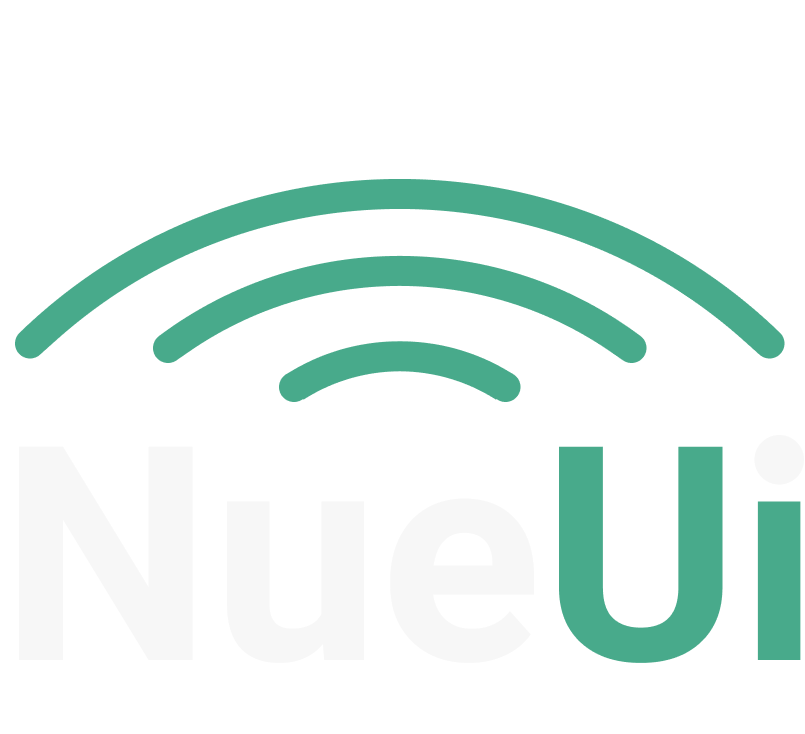
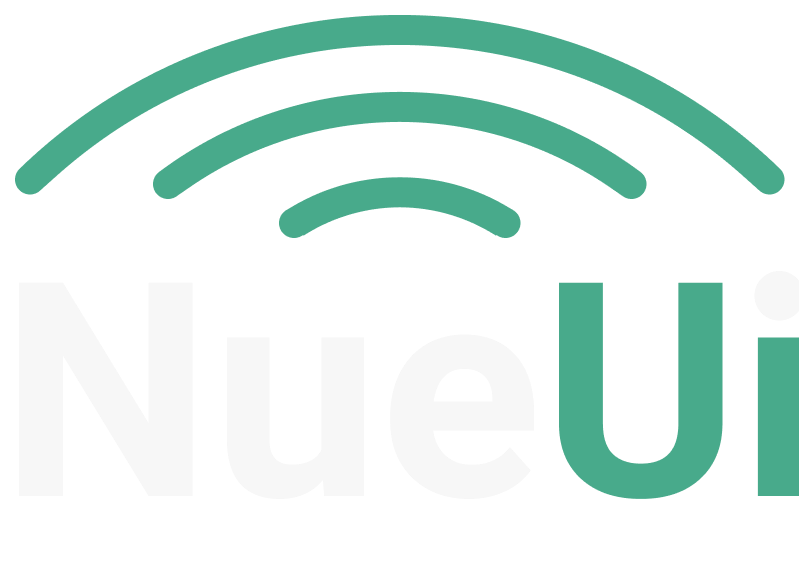
updated navbar

Changed region(s): [[0.0, 0.1491, 1.0, 0.9246], [0.0, 0.0, 0.9912, 0.3579], [0.3304, 0.4474, 0.6608, 0.5667]]

diff --git a/templates/blog/single.html b/templates/blog/single.html
@@ -96,7 +96,7 @@
                         class="btn-link text-dark p-0 border-0 btn-outline-light thumbaction" {% else %}
                         href="{% url 'accounts:register' %}" class="btn-link text-dark p-0 border-0 btn-outline-light"
                         {% endif %} value="thumbsup" data-toggle="tooltip" title="I like this" role="button">
-                        <svg id="thumbsup" width="1.5em" height="1.5em" viewBox="0 0 16 16"
+                        <svg id="thumbsup" width="1.5em" height="1.5em" style="color: #333;" viewBox="0 0 16 16"
                             class="up bi bi-hand-thumbs-up" fill="currentColor" xmlns="http://www.w3.org/2000/svg">
                             <path fill-rule="evenodd"
                                 d="M6.956 1.745C7.021.81 7.908.087 8.864.325l.261.066c.463.116.874.456 1.012.965.22.816.533 2.511.062 4.51a9.84 9.84 0 0 1 .443-.051c.713-.065 1.669-.072 2.516.21.518.173.994.681 1.2 1.273.184.532.16 1.162-.234 1.733.058.119.103.242.138.363.077.27.113.567.113.856 0 .289-.036.586-.113.856-.039.135-.09.273-.16.404.169.387.107.819-.003 1.148a3.163 3.163 0 0 1-.488.901c.054.152.076.312.076.465 0 .305-.089.625-.253.912C13.1 15.522 12.437 16 11.5 16v-1c.563 0 .901-.272 1.066-.56a.865.865 0 0 0 .121-.416c0-.12-.035-.165-.04-.17l-.354-.354.353-.354c.202-.201.407-.511.505-.804.104-.312.043-.441-.005-.488l-.353-.354.353-.354c.043-.042.105-.14.154-.315.048-.167.075-.37.075-.581 0-.211-.027-.414-.075-.581-.05-.174-.111-.273-.154-.315L12.793 9l.353-.354c.353-.352.373-.713.267-1.02-.122-.35-.396-.593-.571-.652-.653-.217-1.447-.224-2.11-.164a8.907 8.907 0 0 0-1.094.171l-.014.003-.003.001a.5.5 0 0 1-.595-.643 8.34 8.34 0 0 0 .145-4.726c-.03-.111-.128-.215-.288-.255l-.262-.065c-.306-.077-.642.156-.667.518-.075 1.082-.239 2.15-.482 2.85-.174.502-.603 1.268-1.238 1.977-.637.712-1.519 1.41-2.614 1.708-.394.108-.62.396-.62.65v4.002c0 .26.22.515.553.55 1.293.137 1.936.53 2.491.868l.04.025c.27.164.495.296.776.393.277.095.63.163 1.14.163h3.5v1H8c-.605 0-1.07-.081-1.466-.218a4.82 4.82 0 0 1-.97-.484l-.048-.03c-.504-.307-.999-.609-2.068-.722C2.682 14.464 2 13.846 2 13V9c0-.85.685-1.432 1.357-1.615.849-.232 1.574-.787 2.132-1.41.56-.627.914-1.28 1.039-1.639.199-.575.356-1.539.428-2.59z" />
@@ -109,7 +109,7 @@
                         class="btn-link text-dark p-0 border-0 btn-outline-light thumbaction" {% else %}
                         href="{% url 'accounts:register' %}" class="btn-link text-dark p-0 border-0 btn-outline-light"
                         {% endif %} value="thumbsdown" data-toggle="tooltip" title="I dont like this" role="button">
-                        <svg id="thumbsdown" width="1.5em" height="1.5em" viewBox="0 0 16 16"
+                        <svg id="thumbsdown" width="1.5em" height="1.5em"  style="color: #333;" viewBox="0 0 16 16"
                             class="down bi bi-hand-thumbs-down" fill="currentColor" xmlns="http://www.w3.org/2000/svg">
                             <path fill-rule="evenodd"
                                 d="M6.956 14.534c.065.936.952 1.659 1.908 1.42l.261-.065a1.378 1.378 0 0 0 1.012-.965c.22-.816.533-2.512.062-4.51.136.02.285.037.443.051.713.065 1.669.071 2.516-.211.518-.173.994-.68 1.2-1.272a1.896 1.896 0 0 0-.234-1.734c.058-.118.103-.242.138-.362.077-.27.113-.568.113-.857 0-.288-.036-.585-.113-.856a2.094 2.094 0 0 0-.16-.403c.169-.387.107-.82-.003-1.149a3.162 3.162 0 0 0-.488-.9c.054-.153.076-.313.076-.465a1.86 1.86 0 0 0-.253-.912C13.1.757 12.437.28 11.5.28v1c.563 0 .901.272 1.066.56.086.15.121.3.121.416 0 .12-.035.165-.04.17l-.354.353.353.354c.202.202.407.512.505.805.104.312.043.44-.005.488l-.353.353.353.354c.043.043.105.141.154.315.048.167.075.37.075.581 0 .212-.027.415-.075.582-.05.174-.111.272-.154.315l-.353.353.353.354c.353.352.373.714.267 1.021-.122.35-.396.593-.571.651-.653.218-1.447.224-2.11.164a8.907 8.907 0 0 1-1.094-.17l-.014-.004H9.62a.5.5 0 0 0-.595.643 8.34 8.34 0 0 1 .145 4.725c-.03.112-.128.215-.288.255l-.262.066c-.306.076-.642-.156-.667-.519-.075-1.081-.239-2.15-.482-2.85-.174-.502-.603-1.267-1.238-1.977C5.597 8.926 4.715 8.23 3.62 7.93 3.226 7.823 3 7.534 3 7.28V3.279c0-.26.22-.515.553-.55 1.293-.138 1.936-.53 2.491-.869l.04-.024c.27-.165.495-.296.776-.393.277-.096.63-.163 1.14-.163h3.5v-1H8c-.605 0-1.07.08-1.466.217a4.823 4.823 0 0 0-.97.485l-.048.029c-.504.308-.999.61-2.068.723C2.682 1.815 2 2.434 2 3.279v4c0 .851.685 1.433 1.357 1.616.849.232 1.574.787 2.132 1.41.56.626.914 1.28 1.039 1.638.199.575.356 1.54.428 2.591z" />
@@ -126,7 +126,7 @@
                 {% if fav %}
                 <div>
                     <a href="{% url 'accounts:favorites_add' post.id %}" class="text-dark">
-                        <svg width="1.5em" height="1.5em" viewBox="0 0 16 16" class="bi bi-bookmark-check"
+                        <svg width="1.5em" height="1.5em" style="color: #333;" viewBox="0 0 16 16" class="bi bi-bookmark-check"
                             fill="#48AA8B" xmlns="http://www.w3.org/2000/svg">
                             <path fill-rule="evenodd"
                                 d="M4.5 2a.5.5 0 0 0-.5.5v11.066l4-2.667 4 2.667V8.5a.5.5 0 0 1 1 0v6.934l-5-3.333-5 3.333V2.5A1.5 1.5 0 0 1 4.5 1h4a.5.5 0 0 1 0 1h-4z" />

diff --git a/templates/blog/index.html b/templates/blog/index.html
@@ -10,7 +10,6 @@ Nue Blog
 {% block content %}
 
 
-
 <!-- FEATURED SECTION -- Jumbotron -->
 <div class="container">
     <div id="carouselExampleDark" class="carousel carousel-dark slide" data-bs-ride="carousel">
@@ -85,7 +84,7 @@ Nue Blog
                             <p class="card-text" style="height: 65px;">{{post.excerpt|truncatechars:50}}</p>
 
                         </div>
-                        <div class="d-flex py-1 justify-content-between align-items-right">
+                        <div class="post-card-bottom d-flex py-1 justify-content-between align-items-right">
                             <small class="post-published-date">{{post.published}}</small>
                             <small class="post-author">{{post.author}}</small>
 
@@ -100,5 +99,46 @@ Nue Blog
     </div>
 </div>
 <!-- POSTS -->
+
+
+<script>
+    $(document).on('keyup', '#id_q', function (e) {
+        e.preventDefault();
+
+        var minlength = 2;
+        var results = [];
+
+        if ($('#id_q').val().length >= minlength) {
+            $.ajax({
+                type: 'POST',
+                url: '{% url "blog:post_search" %}',
+                data: {
+                    ss: $('#id_q').val(),
+                    csrfmiddlewaretoken: $('input[name=csrfmiddlewaretoken]').val(),
+                    action: 'post'
+                },
+                success: function (json) {
+
+                    $.each(JSON.parse(json.search_string), function (i, item) {
+
+                        results.push('<li class="my-2 pl-2"><a href="/' + item
+                            .fields.slug +
+                            '">' + item.fields.title +
+                            '</a></li>')
+                    })
+
+                    if (!$(".show")[0]) {
+                        $('.menudd').trigger('click')
+                    }
+
+                    document.getElementById("list").innerHTML = (!results.length) ?
+                        "No results match your query" : results.join('');
+                },
+                error: function (xhr, errmsg, err) {}
+            });
+        }
+    })
+</script>
+
 
 {% endblock content %}

diff --git a/templates/includes/navbar.html b/templates/includes/navbar.html
@@ -10,16 +10,12 @@
     }
 </style>
 
-<div class="d-flex flex-column flex-md-row align-items-center p-3 px-md-4 mb-3 bg-white border-bottom">
+<div class="d-flex flex-column flex-md-row align-items-center p-3 px-md-4 mb-3 nav-wrap border-bottom">
     <h5 class="my-0 mr-md-auto font-weight-normal"><a class="text-dark" href="/">
-            <img class="img-fluid navbar-logo" src="{% static 'images/nueuibloglogo.png' %}">
+            <img class="img-fluid navbar-logo" src="{% static 'images/nueuiwhite.png' %}">
         </a>
     </h5>
-    <nav class="my-2 my-md-0 mr-md-3">
-        <a class="p-2 text-dark" href="/search">Search</a>
-        <a class="p-2 text-dark" href="#">About</a>
-        <a class="p-2 text-dark" href="#">Contact</a>
-    </nav>
+   
     {% if request.user.is_authenticated %}
     <img class="avatar" src="
     {% for data in avatar %}
@@ -48,8 +44,13 @@
     </ul>
     {% else %}
     <nav>
-        <a class="p-2 text-dark" href="{% url "accounts:register" %}">Register</a>
-        <a class="p-2 text-dark" href="{% url "login" %}">Login</a>
+        <a class="p-2 navlinks mr-2" href="{% url "accounts:register" %}">Register</a>
+        <a class="p-2 navlinks" href="{% url "login" %}">Login</a>
+    </nav>
+    <nav class="my-2 ml-2 my-md-0 mr-md-3">
+        <a class="p-2 navlinks" href="/search"><i class="fas fa-search mr-1"></i> Search</a>
+        <!-- <a class="p-2 text-dark" href="#">About</a> -->
+        <!-- <a class="p-2 text-dark" href="#">Contact</a> -->
     </nav>
     {% endif %}
 </div>

diff --git a/static/css/base.css b/static/css/base.css
@@ -102,6 +102,12 @@ NAVBAR
 ======
 */
 
+.nav-wrap {
+    background-color: #333 !important;
+
+
+}
+
 .navbar {
     position: relative;
     display: flex;
@@ -110,6 +116,18 @@ NAVBAR
     justify-content: space-between;
     padding-top: 0.5rem;
     padding-bottom: 0.5rem;
+}
+
+.navlinks {
+    color: #FFF;
+    transition: 0.3s ease-in-out;
+    font-weight: 300;
+    text-transform: uppercase;
+}
+
+.navlinks:hover {
+    color: #48AA8B;
+    letter-spacing: 3px;
 }
 
 .navbar-toggler {
@@ -254,6 +272,11 @@ BUTTONS
 .card-img-top {
     height: 180px;
     border-radius: 0px;
+}
+
+.post-card-bottom {
+    background-color: #333;
+    color: #FFF;
 }
 
 
@@ -541,18 +564,15 @@ BUTTONS
 }
 
 
-.post-published-date {
-    padding-left: 16px;
-    color: #000;
-}
-
 #id_title {
     text-transform: capitalize;
 }
 
-.post-author {
-    padding-right: 16px;
-    color: #000;
+.post-author,
+.post-published-date {
+    padding: 0px 16px;
+    color: #FFF;
+    
 }
 
 .view-post-arrow {

diff --git a/blog/models.py b/blog/models.py
@@ -28,7 +28,6 @@ class Category(models.Model):
         return self.name
         
     
-
 class Post(models.Model):
     
     class NewManager(models.Manager):
@@ -102,9 +101,7 @@ class Comment(MPTTModel):
     class MPTTMeta:
         order_insertion_by = ['-publish']
         
-    
-    
-    
+        
 class Vote(models.Model):
     post = models.ForeignKey(Post, related_name='postid',
                              on_delete=models.CASCADE, default=None, blank=True)
